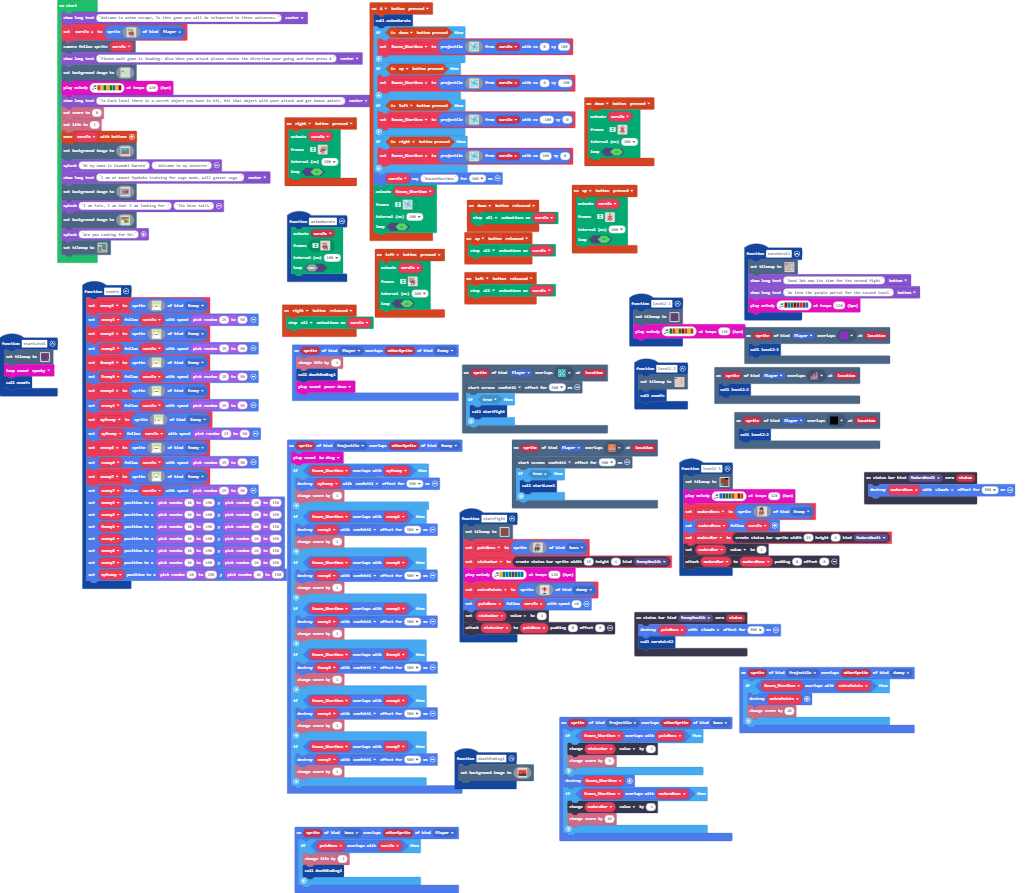
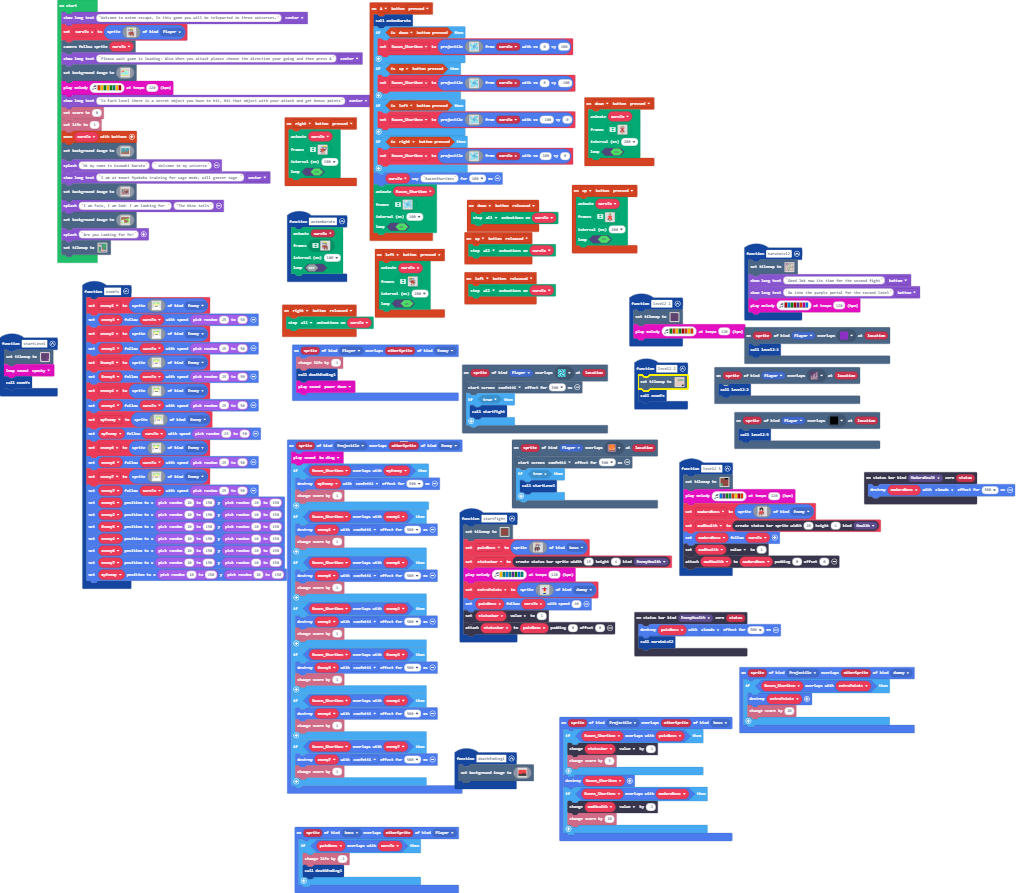
Update main.blocks, main.ts, tilemap.g.jres, tilemap.g.ts

Changed region(s): [[0.6537, 0.5745, 0.8716, 0.6349]]

diff --git a/tilemap.g.ts b/tilemap.g.ts
@@ -618,25 +618,6 @@ namespace myTiles {
 . . . . . . . . . . . . . . . . 
 . . . . . . . . . . . . . . . . 
 `, [myTiles.transparency16,myTiles.tile8,sprites.castle.rock0,myTiles.tile12,sprites.castle.rock1,sprites.castle.shrub,sprites.builtin.brick], TileScale.Sixteen);
-            case "level32":
-            case "level32":return tiles.createTilemap(hex`1000100003030101010101010101010102010101030301010101010101010101020101010101010101010101010101010201010101010101010101010101010102010101010101010101010101010101020101010101010101010101010101010201010101010101010101010101010102010101010101010101010101010101020101010101010101010101010101010201010101010101010101010101010102010101010101010101010101010101020101010101010101010101010101010201010101010101010101010101010102010101010101010101010101010101010101010101010101010101010101010101010101010101010101010101010101010101`, img`
-. . . . . . . . . . . . 2 . . . 
-. . . . . . . . . . . . 2 . . . 
-. . . . . . . . . . . . 2 . . . 
-. . . . . . . . . . . . 2 . . . 
-. . . . . . . . . . . . 2 . . . 
-. . . . . . . . . . . . 2 . . . 
-. . . . . . . . . . . . 2 . . . 
-. . . . . . . . . . . . 2 . . . 
-. . . . . . . . . . . . 2 . . . 
-. . . . . . . . . . . . 2 . . . 
-. . . . . . . . . . . . 2 . . . 
-. . . . . . . . . . . . 2 . . . 
-. . . . . . . . . . . . 2 . . . 
-. . . . . . . . . . . . . . . . 
-. . . . . . . . . . . . . . . . 
-. . . . . . . . . . . . . . . . 
-`, [myTiles.transparency16,myTiles.tile12,sprites.castle.rock1,myTiles.tile7], TileScale.Sixteen);
             case "level33":
[1 lines of base64/hex data omitted]
 2 2 2 2 2 2 2 . . 2 2 2 2 2 2 2 
@@ -656,6 +637,25 @@ namespace myTiles {
 2 2 2 2 2 . . . . . . . . . . . 
 2 2 2 2 2 . . . . . . . . . . . 
 `, [myTiles.transparency16,myTiles.tile5,sprites.builtin.forestTiles3,sprites.builtin.forestTiles2,sprites.builtin.forestTiles1,sprites.builtin.forestTiles4,sprites.builtin.forestTiles7,sprites.builtin.forestTiles6,sprites.builtin.forestTiles5,sprites.builtin.forestTiles9,sprites.builtin.forestTiles11,sprites.builtin.forestTiles12,sprites.builtin.forestTiles10,sprites.builtin.forestTiles16], TileScale.Sixteen);
+            case "level32":
+            case "level32":return tiles.createTilemap(hex`1000100001010101010101010101010101010101010101010101010101010101010101010101010101010101010101010101010101010101010303030303030303030303010101010103030303030303030303030101010101010101010101010101010101010101010101010101010101010101010101010101010101010101010101010101010101010101010101010101010101010101010101010101010101010101010101010101010101010101010101010101010101010101010101010101010101010101010101010101010101010101010101010101010101010101010102020101010101010101010101010102020201010101010101010101010101020202`, img`
+. . . . . . . . . . . . . . . . 
+. . . . . . . . . . . . . . . . 
+. . . . . . . . . . . . . . . . 
+. . . . . 2 2 2 2 2 2 2 2 2 2 2 
+. . . . . 2 2 2 2 2 2 2 2 2 2 2 
+. . . . . . . . . . . . . . . . 
+. . . . . . . . . . . . . . . . 
+. . . . . . . . . . . . . . . . 
+. . . . . . . . . . . . . . . . 
+. . . . . . . . . . . . . . . . 
+. . . . . . . . . . . . . . . . 
+. . . . . . . . . . . . . . . . 
+. . . . . . . . . . . . . . . . 
+. . . . . . . . . . . . . . . . 
+. . . . . . . . . . . . . . . . 
+. . . . . . . . . . . . . . . . 
+`, [myTiles.transparency16,myTiles.tile12,myTiles.tile7,sprites.builtin.forestTiles0], TileScale.Sixteen);
         }
         return null;
     })

diff --git a/main.ts b/main.ts
@@ -248,10 +248,10 @@ function level23 () {
     tiles.setTilemap(tilemap`level33`)
     music.playMelody("E D G F B A C5 B ", 120)
     madaraBoss = sprites.create(assets.image`madara`, SpriteKind.Enemy)
+    madHealth = statusbars.create(20, 4, StatusBarKind.Health)
     madaraBoss.follow(naruTo)
-    madaraBar = statusbars.create(15, 4, StatusBarKind.MadaraHealt)
-    madaraBar.value = 1
-    madaraBar.attachToSprite(madaraBoss, 0, 0)
+    madHealth.value = 1
+    madHealth.attachToSprite(madaraBoss, 0, 0)
 }
 function deathEnding1 () {
     scene.setBackgroundImage(img`
@@ -408,7 +408,7 @@ controller.down.onEvent(ControllerButtonEvent.Pressed, function () {
     )
 })
 scene.onOverlapTile(SpriteKind.Player, assets.tile`myTile5`, function (sprite, location) {
-    level22()
+    level23()
 })
 function narutoLvl2 () {
     tiles.setTilemap(tilemap`level30`)
@@ -423,7 +423,7 @@ sprites.onOverlap(SpriteKind.Projectile, SpriteKind.boss, function (sprite, othe
     }
     Rasen_Shuriken.destroy()
     if (Rasen_Shuriken.overlapsWith(madaraBoss)) {
-        madaraBar.value += -1
+        madHealth.value += -1
         info.changeScoreBy(10)
     }
 })
@@ -487,7 +487,7 @@ function level22 () {
     tiles.setTilemap(tilemap`level32`)
     enemYs()
 }
-let madaraBar: StatusBarSprite = null
+let madHealth: StatusBarSprite = null
 let madaraBoss: Sprite = null
 let statusbar: StatusBarSprite = null
 let extraPoints: Sprite = null
